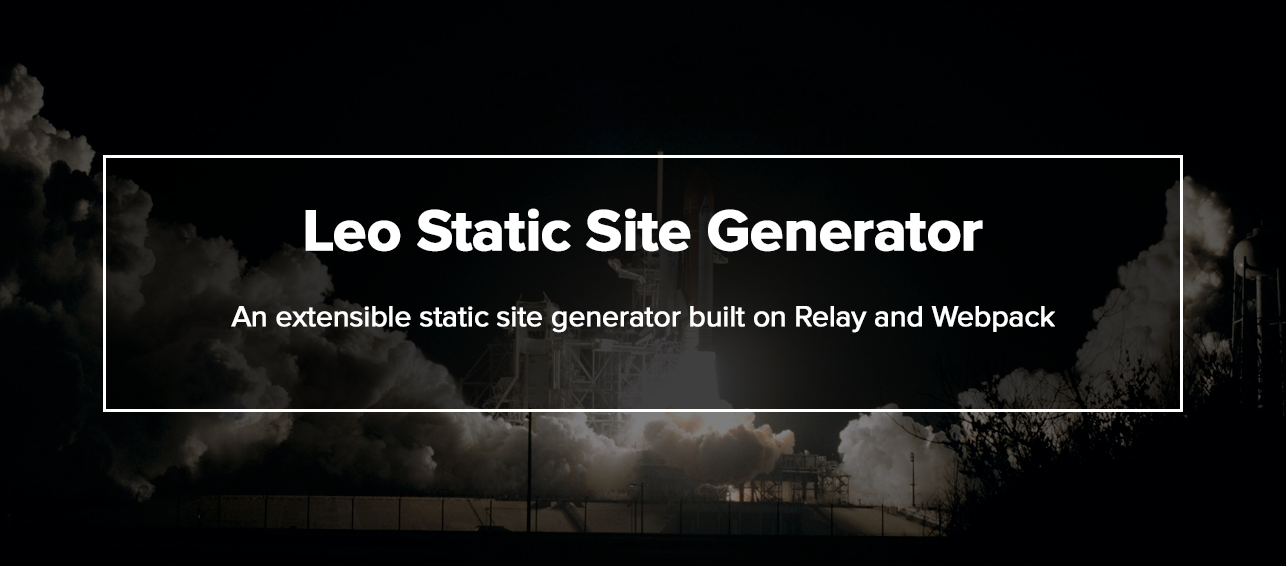
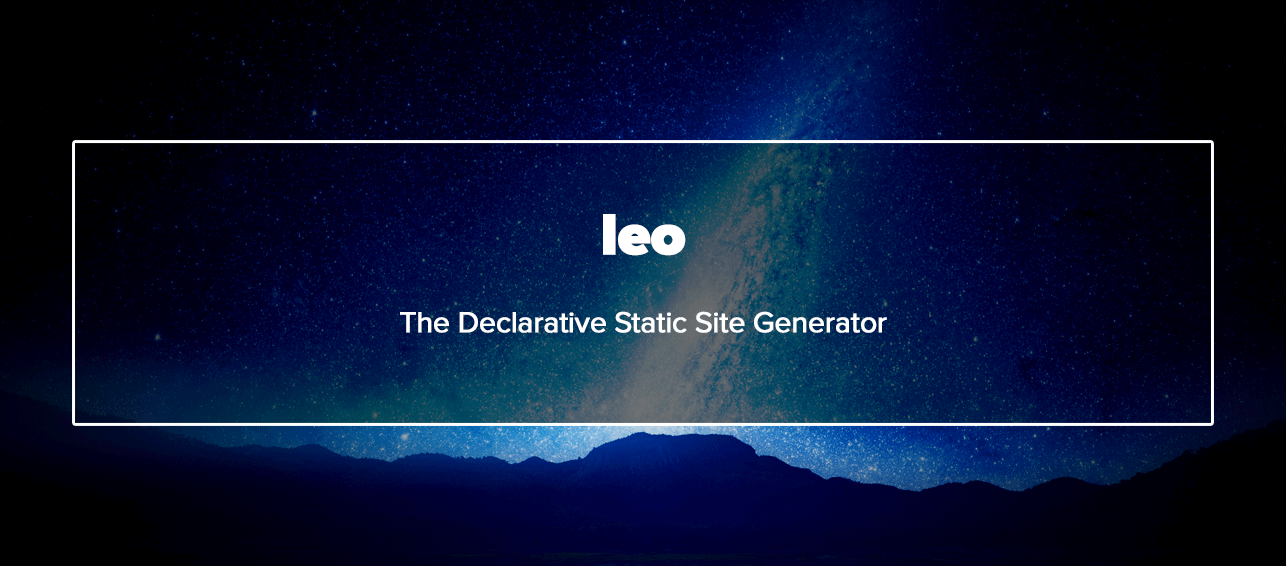
swap header

diff --git a/README.md b/README.md
@@ -5,8 +5,6 @@
 Leo is alpha quality software. Expect bugs. Documentation needs
 work. Contributions welcome.
 
-A list of `TODO`s can be found in [TODO.md](./TODO.md)
-
 # Get Started
 
 ```javascript
